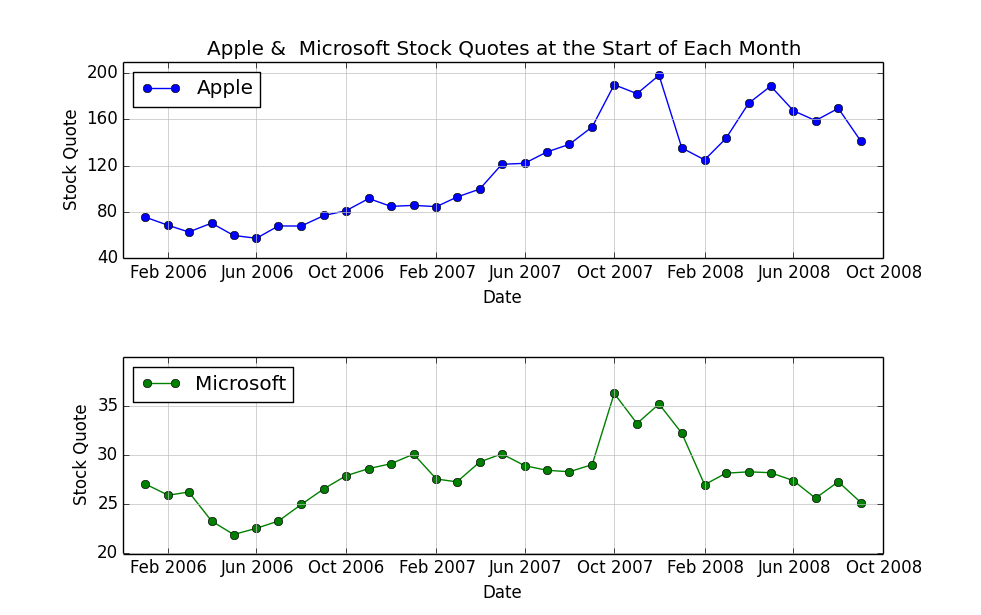
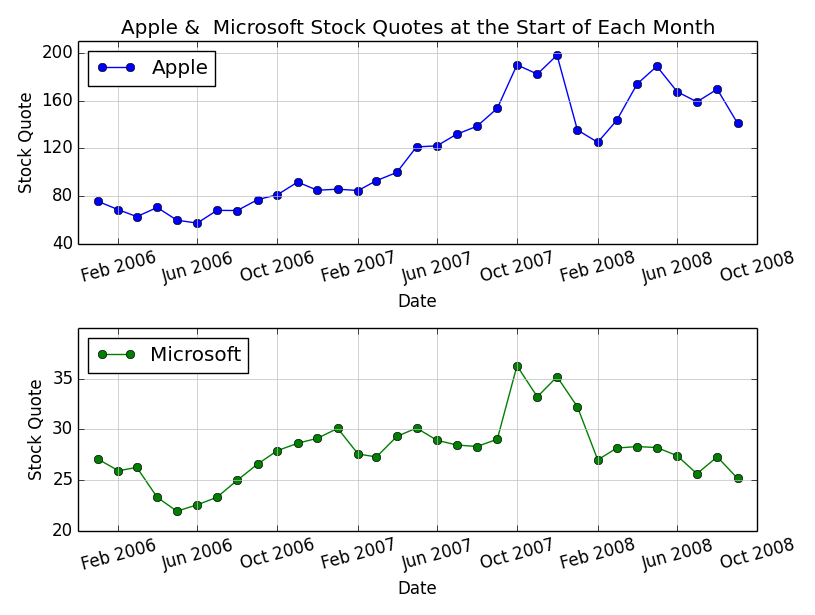
Problem 1C Complete Commit (annotations & formatting)

Changed region(s): [[0.0, 0.0309, 0.9816, 0.9886]]

diff --git a/ajm777/assignment5/problem1c.py b/ajm777/assignment5/problem1c.py
@@ -30,11 +30,8 @@ for element in month:
 
 fig, (ax0, ax1) = plt.subplots(nrows=2)
 ax0.set_title("Apple &  Microsoft Stock Quotes at the Start of Each Month")
-#fig.autofmt_xdate()
-#plt.xticks(rotation=30)
 
 ax0.plot(dates, apple, 'o-', label='Apple')
-#plt.xticks(rotation=30)
 ax0.set_xlabel('Date')
 ax0.set_ylabel('Stock Quote')
 ax0.set_ylim(40,210)
@@ -43,9 +40,9 @@ datemin = date(2005, 12, 1)
 datemax = date(2008, 10, 1)
 ax0.set_xlim(datemin, datemax)
 ax0.grid(which = 'both', color = '0.75', linestyle = '-')
+ax0.legend(loc='upper left')
 
 ax1.plot(dates, msft, 'go-', label='Microsoft')
-#plt.xticks(rotation=30)
 ax1.set_xlabel('Date')
 ax1.set_ylabel('Stock Quote')
 ax1.set_ylim(20,40)
@@ -54,15 +51,25 @@ datemin = date(2005, 12, 1)
 datemax = date(2008, 10, 1)
 ax1.set_xlim(datemin, datemax)
 ax1.grid(which = 'both', color = '0.75', linestyle = '-')
+ax1.legend(loc='upper left')
 
-plt.subplots_adjust(hspace=0.5)
-#plt.xticks(rotation=30)
-
-# Now add the legends
-legend = ax0.legend(loc='upper left')
-legend2 = ax1.legend(loc='upper left')
-
+plt.setp(ax0.get_xticklabels(), rotation=15)
+plt.setp(ax1.get_xticklabels(), rotation=15)
+plt.subplots_adjust(hspace=0.45)
+plt.tight_layout()
 plt.show()
 
-
 #_____________________Annotation
+"""
+In this plot, we can see the fluctuations in the stock of Apple and 
+Microsoft very clearly. Because Microsoft's peaks and drops are 
+smaller than Apple's (rising ~7 points from September to October 2007 
+vs. Apple's rise of ~35 points in that same time period), it is 
+difficult to see them when plotted on the same graph. Here, however, 
+you can clearly see the trends followed by both stocks and the rises 
+and falls in each one specifically. Which format makes more sense 
+depends on your intention for the graph. If the goal is to compare the 
+value of the two stocks, than they should be plotted on the same graph. 
+If the goal is to compare the patterns and fluctuations of the two
+stocks, then this represnetation (on two graphs) makes the most sense. 
+"""
